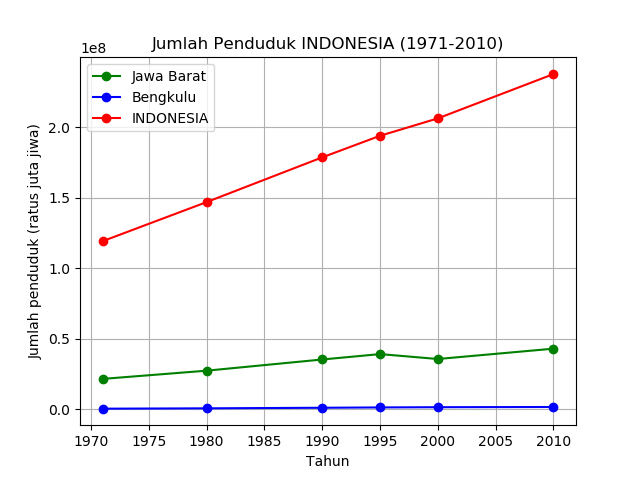
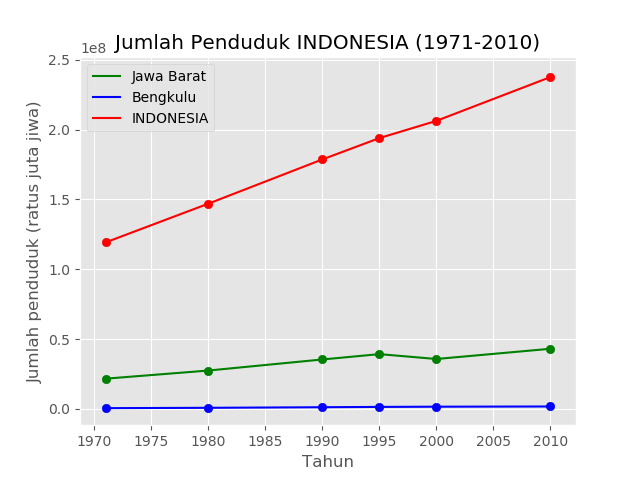
Add files via upload

diff --git a/soal1_2.py b/soal1_2.py
@@ -1,7 +1,9 @@
 import numpy as np
 import pandas as pd
 import matplotlib.pyplot as plt
-
+# =============================================
+# Establish Dataset, Pre-processing
+# =============================================
 # Load Data
 df_1 = pd.read_excel('indo_12_1.xls')
 df_1 = df_1.drop([0,1,2])
@@ -10,8 +12,6 @@ df = df_1.iloc[0:34]
 List_Column = ['Provinsi', 1971, 1980, 1990, 1995, 2000, 2010]
 
 df = df.set_index(np.arange(0, 34))
-
-# print(df.iloc[0].values)
 df.columns = List_Column
 # print(df.columns)	# print(type(df.columns))
 
@@ -23,7 +23,6 @@ df = df.replace('-', np.NaN)
 # =============================================
 # Processing
 # =============================================
-
 list_jumlah = []
 for x in df.columns:
 	if type(x) == int:
@@ -37,7 +36,7 @@ min_1971_val = np.array(min_1971[:,1:]).reshape(-1,1)
 
 list_tahun_col = [1971, 1980, 1990, 1995, 2000, 2010]
 
-Nama_Prov = [
+Observation_Name = [
 	df.Provinsi.iloc[11],	
 	df.Provinsi.iloc[6],
 	df.Provinsi.iloc[33],
@@ -52,43 +51,54 @@ model_Jabar = linear_model.LinearRegression()
 model_Bengk = linear_model.LinearRegression()
 model_jumlah = linear_model.LinearRegression()
 
-# X=[[1971, 1980, 1990, 1995, 2000, 2010]]
 X = np.array([list_tahun_col]).reshape(-1,1)
 y_Jabar = np.array(max_2010_val)
 y_Bengk = np.array(min_1971_val)
 y_Indo = np.array(list_jumlah)
-# print(type(X)) ; print(type(y))
-# print(X.shape)	;	print(y.shape)
+# print(type(X))	; print(type(y))
+# print(X.shape)	; print(y.shape)
 
 model_Jabar.fit(X, y_Jabar)
 model_Bengk.fit(X, y_Bengk)
 model_jumlah.fit(X, y_Indo)
 
-print('Prediksi jumlah penduduk {} di tahun 2050:'.format(Nama_Prov[0]), int(model_Jabar.predict([[2050]]).round()))
-print('Prediksi jumlah penduduk {} di tahun 2050:'.format(Nama_Prov[1]), int(model_Bengk.predict([[2050]]).round()))
-print('Prediksi jumlah penduduk {} di tahun 2050:'.format(Nama_Prov[2]), int(model_jumlah.predict([[2050]]).round()))
+print('Prediksi jumlah penduduk {} di tahun 2050:'.format(Observation_Name[0]), int(model_Jabar.predict([[2050]]).round()))
+print('Prediksi jumlah penduduk {} di tahun 2050:'.format(Observation_Name[1]), int(model_Bengk.predict([[2050]]).round()))
+print('Prediksi jumlah penduduk {} di tahun 2050:'.format(Observation_Name[2]), int(model_jumlah.predict([[2050]]).round()))
 
 y_pred_jabar = model_Jabar.predict(X)
 y_pred_bengk = model_Bengk.predict(X)
 y_pred_indo = model_jumlah.predict(X)
 
-
 # =============================================
 # Plotting
 # =============================================
+X 		= list_tahun_col
+list_y	= [max_2010_val, min_1971_val, list_jumlah]
+list_color = ['g', 'b', 'r']
+list_y_pred = [y_pred_jabar, y_pred_bengk, y_pred_indo]
+
 plt.figure('soal1_2')
-plt.plot(list_tahun_col, max_2010_val, 'g', marker='o')
-plt.plot(list_tahun_col, min_1971_val, 'b', marker='o')
-plt.plot(list_tahun_col, list_jumlah, 'r', marker='o')
+plt.style.use('ggplot')
 
-plt.plot(list_tahun_col, y_pred_jabar, 'y')
-plt.plot(list_tahun_col, y_pred_bengk, 'y')
-plt.plot(list_tahun_col, y_pred_indo, 'y')
+for e, rgb in zip(list_y, list_color):
+	plt.plot(X, e, color=rgb, linestyle='-')
+	plt.scatter(X, e, color=rgb)
+for f in list_y_pred:
+	plt.plot(X, f, color='y')
 
-plt.title('Jumlah Penduduk INDONESIA (1971-2010)')
+plt.title('Jumlah Penduduk {} (1971-2010)'.format(Observation_Name[2]))
 plt.xlabel('Tahun')
 plt.ylabel('Jumlah penduduk (ratus juta jiwa)')
-plt.legend(Nama_Prov)
+plt.legend(Observation_Name)
 
 plt.grid(True)
-plt.show() 
+plt.show()
+plt.clf()
+
+"""
+Terminal:
+Prediksi jumlah penduduk {Obs0} di tahun 2050: 65443585
+Prediksi jumlah penduduk {Obs1} di tahun 2050: 3139135
+Prediksi jumlah penduduk {Obs2} di tahun 2050: 359127110
+"""

diff --git a/soal1_1.py b/soal1_1.py
@@ -1,7 +1,9 @@
 import numpy as np
 import pandas as pd
 import matplotlib.pyplot as plt
-
+# =============================================
+# Establish Dataset, Pre-processing
+# =============================================
 # Load Data
 df_1 = pd.read_excel('indo_12_1.xls')
 df_1 = df_1.drop([0,1,2])
@@ -10,8 +12,6 @@ df = df_1.iloc[0:34]
 List_Column = ['Provinsi', 1971, 1980, 1990, 1995, 2000, 2010]
 
 df = df.set_index(np.arange(0, 34))
-
-# print(df.iloc[0].values)
 df.columns = List_Column
 # print(df.columns)	# print(type(df.columns))
 
@@ -23,7 +23,6 @@ df = df.replace('-', np.NaN)
 # =============================================
 # Processing
 # =============================================
-
 list_jumlah = []
 for x in df.columns:
 	if type(x) == int:
@@ -37,33 +36,30 @@ min_1971_val = np.array(min_1971[:,1:]).reshape(-1,1)
 
 list_tahun_col = [1971, 1980, 1990, 1995, 2000, 2010]
 
-Nama_Prov = [
+Observation_Name = [
 	df.Provinsi.iloc[11],	
 	df.Provinsi.iloc[6],
 	df.Provinsi.iloc[33],
 ]
-
 # =============================================
 # Plotting
 # =============================================
-plt.figure('soal1_1')
-plt.plot(list_tahun_col, max_2010_val, 'g', marker='o')
-plt.plot(list_tahun_col, min_1971_val, 'b', marker='o')
-plt.plot(list_tahun_col, list_jumlah, 'r', marker='o')
+X 		= list_tahun_col
+list_y	= [max_2010_val, min_1971_val, list_jumlah]
+list_color = ['g', 'b', 'r']
 
-plt.title('Jumlah Penduduk INDONESIA (1971-2010)')
+plt.figure('soal1_1')
+plt.style.use('ggplot')
+
+for e, rgb in zip(list_y, list_color):
+	plt.plot(X, e, color=rgb, linestyle='-')
+	plt.scatter(X, e, color=rgb)
+
+plt.title('Jumlah Penduduk {} (1971-2010)'.format(Observation_Name[2]))
 plt.xlabel('Tahun')
 plt.ylabel('Jumlah penduduk (ratus juta jiwa)')
-plt.legend(Nama_Prov)
+plt.legend(Observation_Name)
 
 plt.grid(True)
 plt.show() 
-
-
-# =============================================
-# Soal
-# =============================================
-# 1. Buatlah sebuah file python (soal1_1.py) yang dapat menampilkan grafik:
-# (1) jumlah penduduk Indo,
-# (2) jumlah penduduk dari provinsi yang memiliki penduduk terbanyak di tahun 2010, dan 
-# (3) jumlah penduduk dari provinsi yang memiliki penduduk paling sedikit di tahun 1971
+plt.clf()
